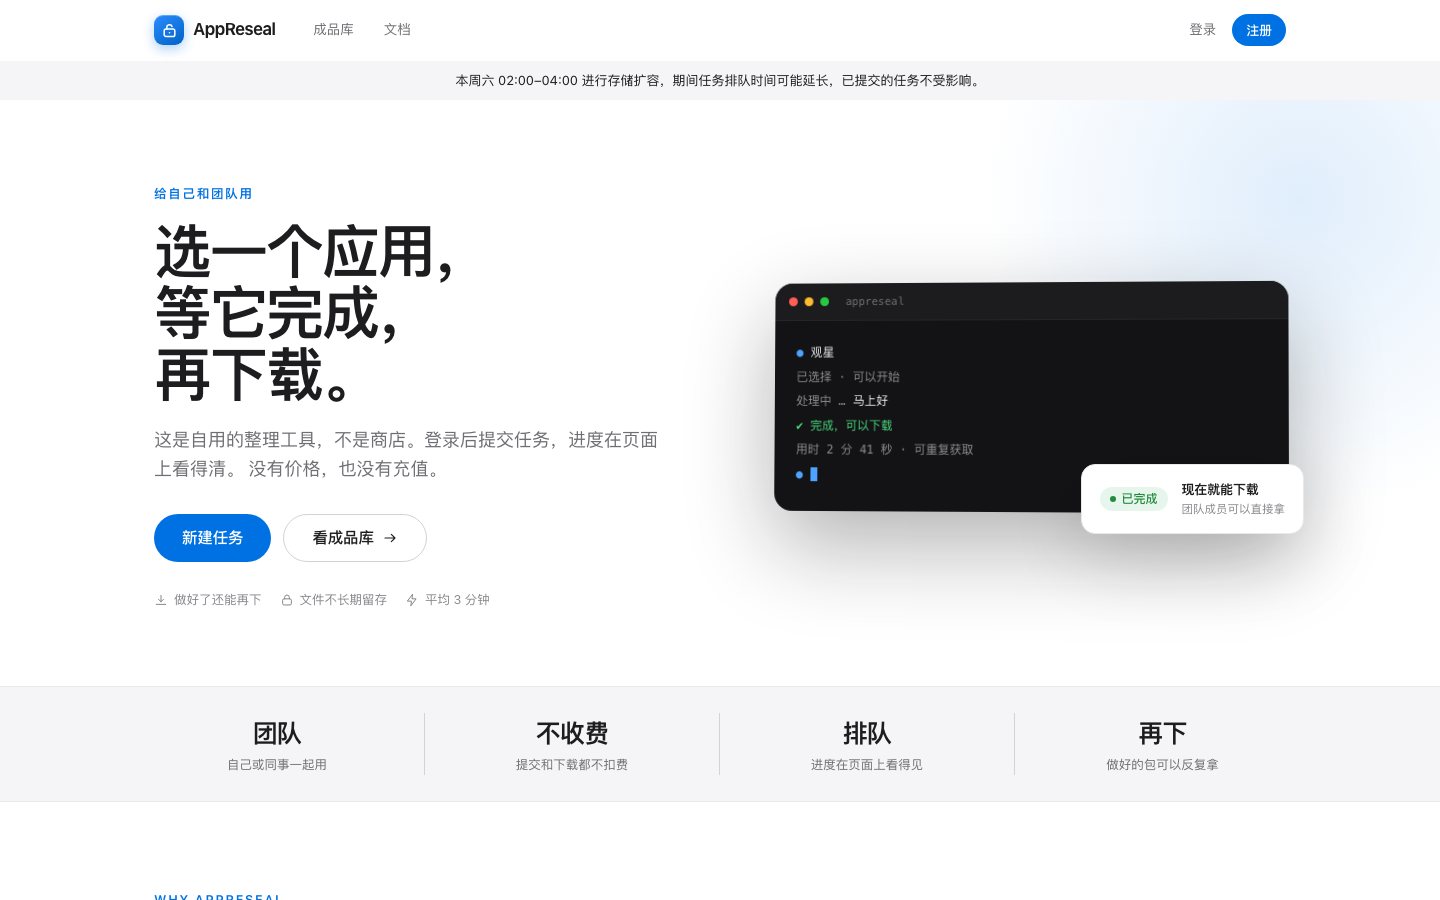
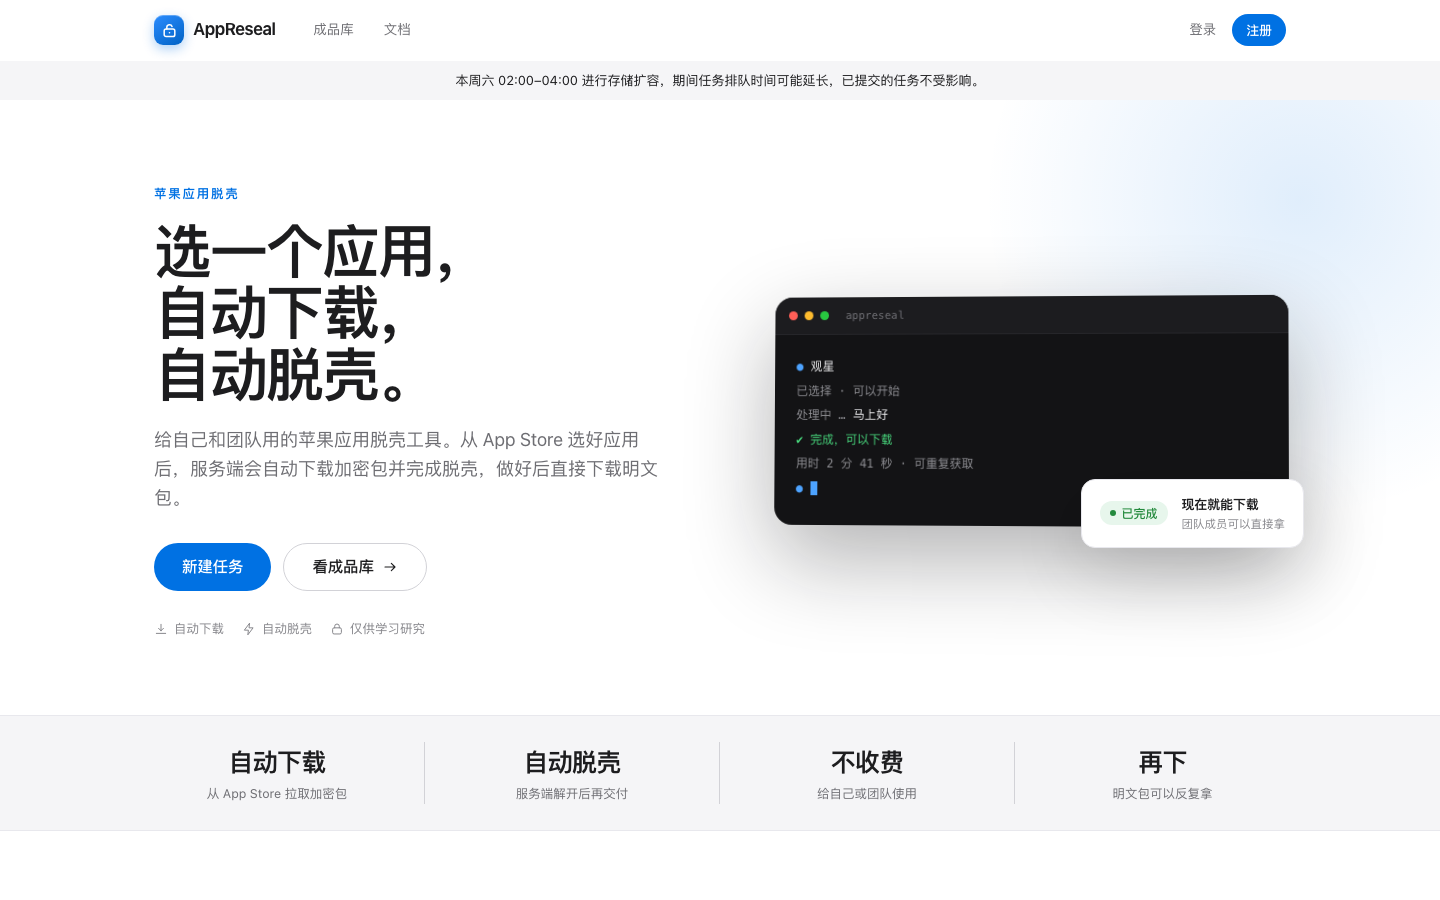
Describe the tool as automatic Apple app decryption.
The homepage, docs, and READMEs now say the server downloads and decrypts an App Store app, then delivers the plain package.

diff --git a/frontend/src/views/public/Home.vue b/frontend/src/views/public/Home.vue
@@ -20,16 +20,16 @@ onMounted(async () => {
 })
 
 const stats = [
-  { value: '团队', label: '自己或同事一起用' },
-  { value: '不收费', label: '提交和下载都不扣费' },
-  { value: '排队', label: '进度在页面上看得见' },
-  { value: '再下', label: '做好的包可以反复拿' }
+  { value: '自动下载', label: '从 App Store 拉取加密包' },
+  { value: '自动脱壳', label: '服务端解开后再交付' },
+  { value: '不收费', label: '给自己或团队使用' },
+  { value: '再下', label: '明文包可以反复拿' }
 ]
 
 const steps = [
-  { n: '01', icon: 'zap', title: '登录就能用', desc: '给自己或团队开账号。不需要准备设备和付费余额。' },
-  { n: '02', icon: 'clock', title: '提交任务', desc: '从 App Store 选应用，或上传自己的加密 IPA。忙的时候会排队。' },
-  { n: '03', icon: 'download', title: '完成后下载', desc: '自己的任务和团队成品库都可以再下，没有购买和免费期。' }
+  { n: '01', icon: 'zap', title: '选一个苹果应用', desc: '从 App Store 搜索，或上传自己已经下载的加密 IPA。' },
+  { n: '02', icon: 'clock', title: '自动下载并脱壳', desc: '服务端自动下载加密包，再自动脱壳。进度在页面上看得清。' },
+  { n: '03', icon: 'download', title: '下载明文包', desc: '完成后直接下载。自己的任务和成品库都可以再拿。' }
 ]
 
 const faqs = [
@@ -64,11 +64,10 @@ const openFaq = ref(0)
     <section class="hero">
       <div class="container hero__grid">
         <div class="hero__copy">
-          <div class="eyebrow">给自己和团队用</div>
-          <h1 class="h1 hero__title">选一个应用，<br />等它完成，<br />再下载。</h1>
+          <div class="eyebrow">苹果应用脱壳</div>
+          <h1 class="h1 hero__title">选一个应用，<br />自动下载，<br />自动脱壳。</h1>
           <p class="lead hero__lead">
-            这是自用的整理工具，不是商店。登录后提交任务，进度在页面上看得清。
-            没有价格，也没有充值。
+            给自己和团队用的苹果应用脱壳工具。从 App Store 选好应用后，服务端会自动下载加密包并完成脱壳，做好后直接下载明文包。
           </p>
           <div class="hero__actions">
             <UiButton to="/app/new" variant="primary" size="lg">新建任务</UiButton>
@@ -78,9 +77,9 @@ const openFaq = ref(0)
             </UiButton>
           </div>
           <div class="hero__trust">
-            <span><AppIcon name="download" :size="14" /> 做好了还能再下</span>
-            <span><AppIcon name="lock" :size="14" /> 文件不长期留存</span>
-            <span><AppIcon name="zap" :size="14" /> 平均 3 分钟</span>
+            <span><AppIcon name="download" :size="14" /> 自动下载</span>
+            <span><AppIcon name="zap" :size="14" /> 自动脱壳</span>
+            <span><AppIcon name="lock" :size="14" /> 仅供学习研究</span>
           </div>
         </div>
 
@@ -128,8 +127,8 @@ const openFaq = ref(0)
         <div class="section-head">
           <div>
             <div class="eyebrow">WHY APPRESEAL</div>
-            <h2 class="h2" style="margin-top: 10px">给团队留一个入口。</h2>
-            <p>选应用、等完成、下载。不经过钱包。</p>
+            <h2 class="h2" style="margin-top: 10px">下载和脱壳都自动完成。</h2>
+            <p>选好苹果应用，剩下的不用自己操作。</p>
           </div>
           <router-link to="/docs" class="row gap-6 small">
             使用文档 <AppIcon name="arrow-right" :size="14" />

diff --git a/frontend/src/views/public/Docs.vue b/frontend/src/views/public/Docs.vue
@@ -37,11 +37,11 @@ const errors = [
       <article class="doc">
         <div class="eyebrow">DOCUMENTATION</div>
         <h1 class="h1" style="margin-top: 12px; font-size: 40px">使用文档</h1>
-        <p class="lead" style="margin-top: 14px">给自己和团队用。登录后提交任务，完成后下载。没有钱包和价格。</p>
+        <p class="lead" style="margin-top: 14px">苹果应用脱壳工具。选好应用后自动下载、自动脱壳，做好后下载明文包。</p>
 
         <section id="start" class="doc__section">
           <h2>快速开始</h2>
-          <p>整个流程分三步：选目标、等解密、拿产物。</p>
+          <p>整个流程分三步：选苹果应用、自动下载并脱壳、下载明文包。</p>
 
           <div class="steps">
             <div class="step">

diff --git a/frontend/index.html b/frontend/index.html
@@ -4,7 +4,7 @@
     <meta charset="UTF-8" />
     <meta name="viewport" content="width=device-width, initial-scale=1.0" />
     <meta name="theme-color" content="#ffffff" />
-    <meta name="description" content="AppReseal — 选一个应用，几分钟就能下载明文包。不用准备设备，失败自动退款。" />
+    <meta name="description" content="AppReseal — 苹果应用脱壳。自动下载，自动脱壳，做好后下载明文包。" />
     <title>AppReseal — iOS IPA 脱壳</title>
   </head>
   <body>

diff --git a/frontend/src/views/auth/AuthShell.vue b/frontend/src/views/auth/AuthShell.vue
@@ -11,8 +11,8 @@ defineProps<{ title: string; subtitle: string }>()
       <AppLogo dark />
       <div class="auth__pitch">
         <div class="eyebrow" style="color: #4da3ff">IOS IPA DECRYPTION</div>
-        <h1>把加密包<br />变成明文。</h1>
-        <p>多 Apple ID 池、离线 FairPlay 解密、cryptid 自动校验。</p>
+        <h1>苹果应用<br />自动脱壳。</h1>
+        <p>选好应用后自动下载、自动脱壳，做好后下载明文包。</p>
       </div>
 
       <div class="mini-term">

diff --git a/frontend/src/components/AppFooter.vue b/frontend/src/components/AppFooter.vue
@@ -15,7 +15,7 @@ const groups = [
       <div class="footer__grid">
         <div class="footer__brand">
           <AppLogo />
-          <p>给自己和团队用的整理工具。<br />仅供学习研究，没有付费功能。</p>
+          <p>苹果应用脱壳工具。<br />自动下载，自动脱壳。仅供学习研究。</p>
         </div>
         <div v-for="g in groups" :key="g.title" class="footer__group">
           <div class="footer__title">{{ g.title }}</div>

diff --git a/README.ja.md b/README.ja.md
@@ -2,9 +2,9 @@
 
 [中文](README.md) | [English](README.en.md) | 日本語
 
-自分または小さなチームで使う整理ツールです。App Store のアプリを選ぶか、自分の暗号化 IPA をアップロードし、処理が終わってからダウンロードする。
+自分または小さなチームで使う、Apple アプリの復号ツールです。App Store のアプリを選ぶと、サーバーが暗号化パッケージを自動でダウンロードし、自動で復号します。終わったら平文パッケージをダウンロードします。手元の暗号化 IPA をアップロードすることもできます。
 
-利用者が自分で脱獄端末を用意する必要はない。ダウンロード、復号、検証はサーバー側で行う。ウォレット、価格、チャージはない。
+利用者が自分で脱獄端末を用意する必要はない。ウォレット、価格、チャージはない。
 
 ![ホーム](docs/screenshots/home.png)
 

diff --git a/README.en.md b/README.en.md
@@ -2,9 +2,9 @@
 
 [中文](README.md) | English | [日本語](README.ja.md)
 
-A tool for you or a small team. Pick an App Store app, or upload your own encrypted IPA, then download the result when the job finishes.
+A tool for decrypting Apple apps, for you or a small team. Pick an App Store app and the server downloads the encrypted package and decrypts it automatically. Download the plain package when the job finishes. You can also upload an encrypted IPA you already have.
 
-The user does not need a jailbroken device. Download, decrypt, and verification run on the server. There is no wallet, price, or top-up.
+The user does not need a jailbroken device. There is no wallet, price, or top-up.
 
 Screenshots and the full guide are in [README.md](README.md) (Chinese) and [README.ja.md](README.ja.md) (Japanese). The interface itself is still Chinese.
 

diff --git a/README.md b/README.md
@@ -2,9 +2,9 @@
 
 中文 | [English](README.en.md) | [日本語](README.ja.md)
 
-给自己或小团队用的整理工具。选一个 App Store 应用，或上传自己的加密 IPA，等任务完成后再下载。
+给自己或小团队用的苹果应用脱壳工具。从 App Store 选一个应用，服务端会自动下载加密包并自动脱壳，做好后下载明文包。也可以上传自己已经下载的加密 IPA。
 
-不需要使用者准备越狱设备。下载、解密和校验都在服务端完成。没有钱包、价格和充值。
+不需要使用者准备越狱设备。没有钱包、价格和充值。
 
 ![首页](docs/screenshots/home.png)
 
